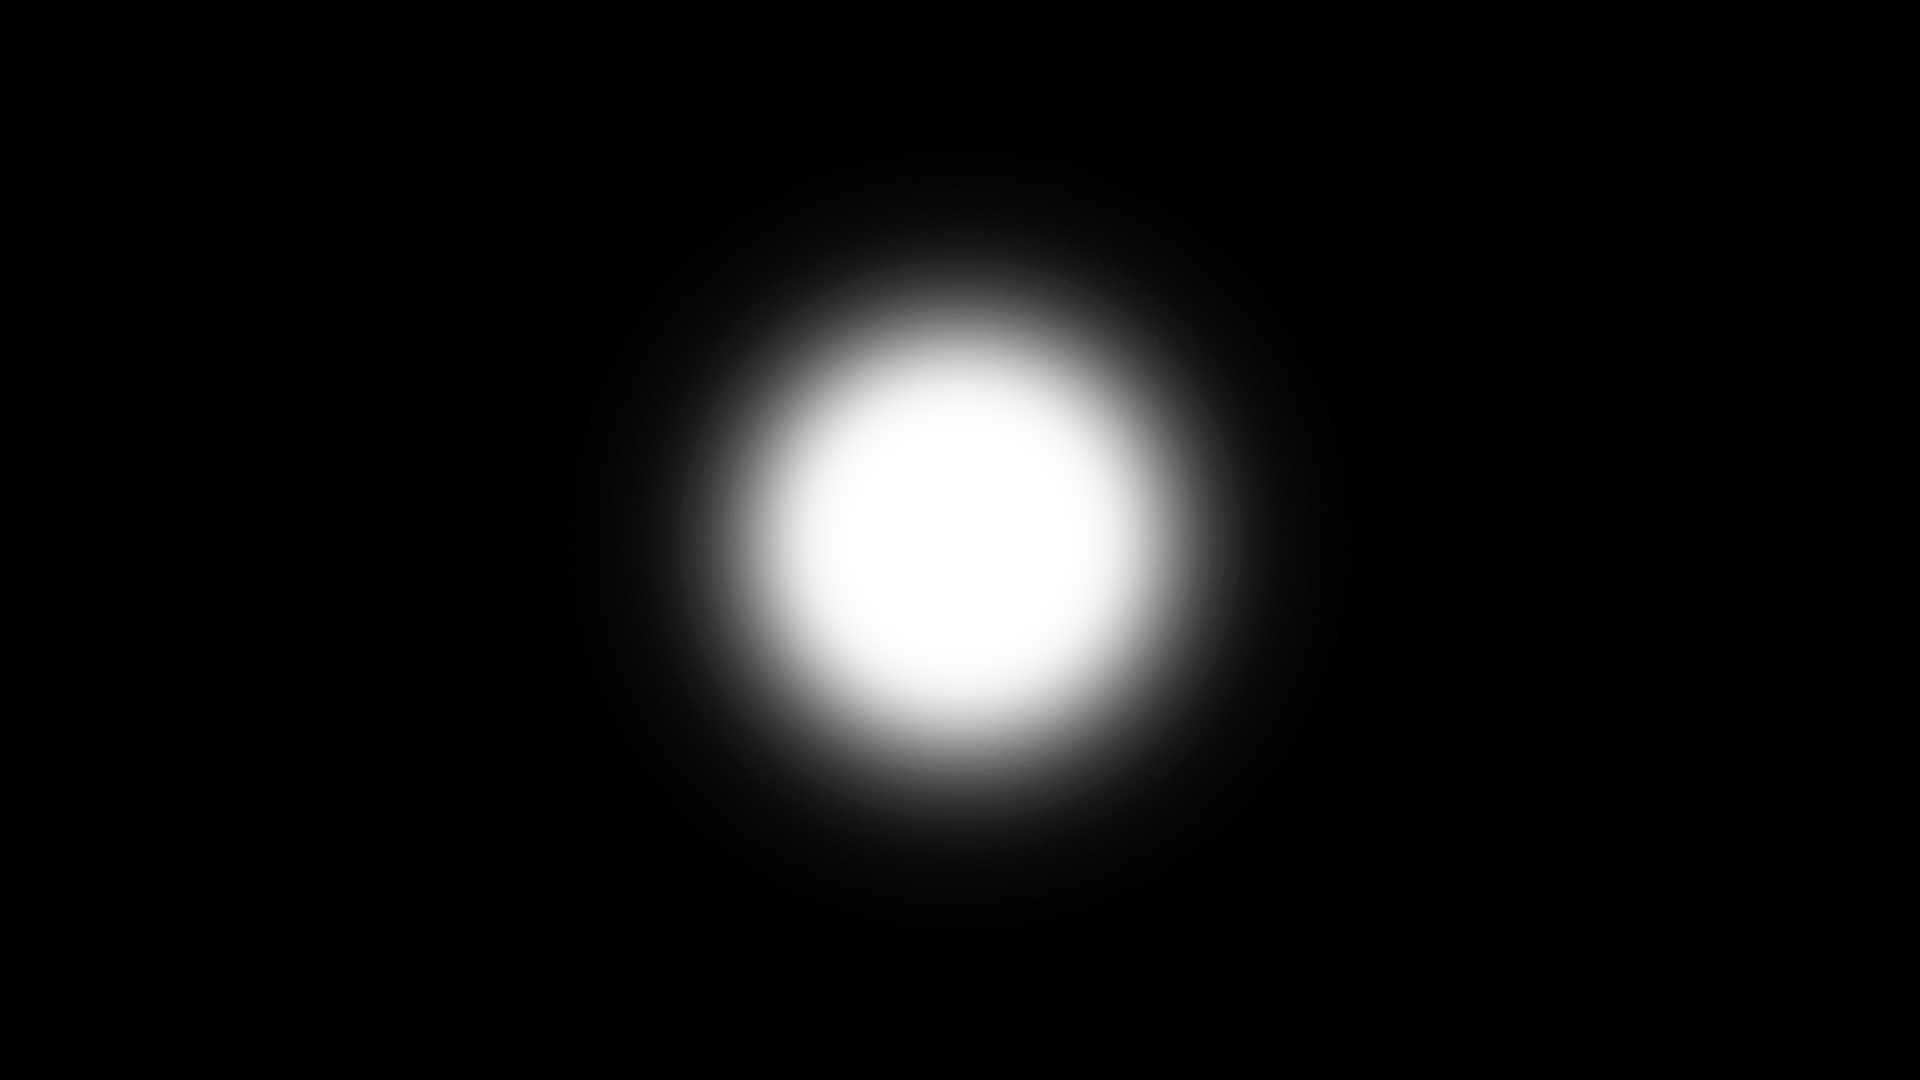
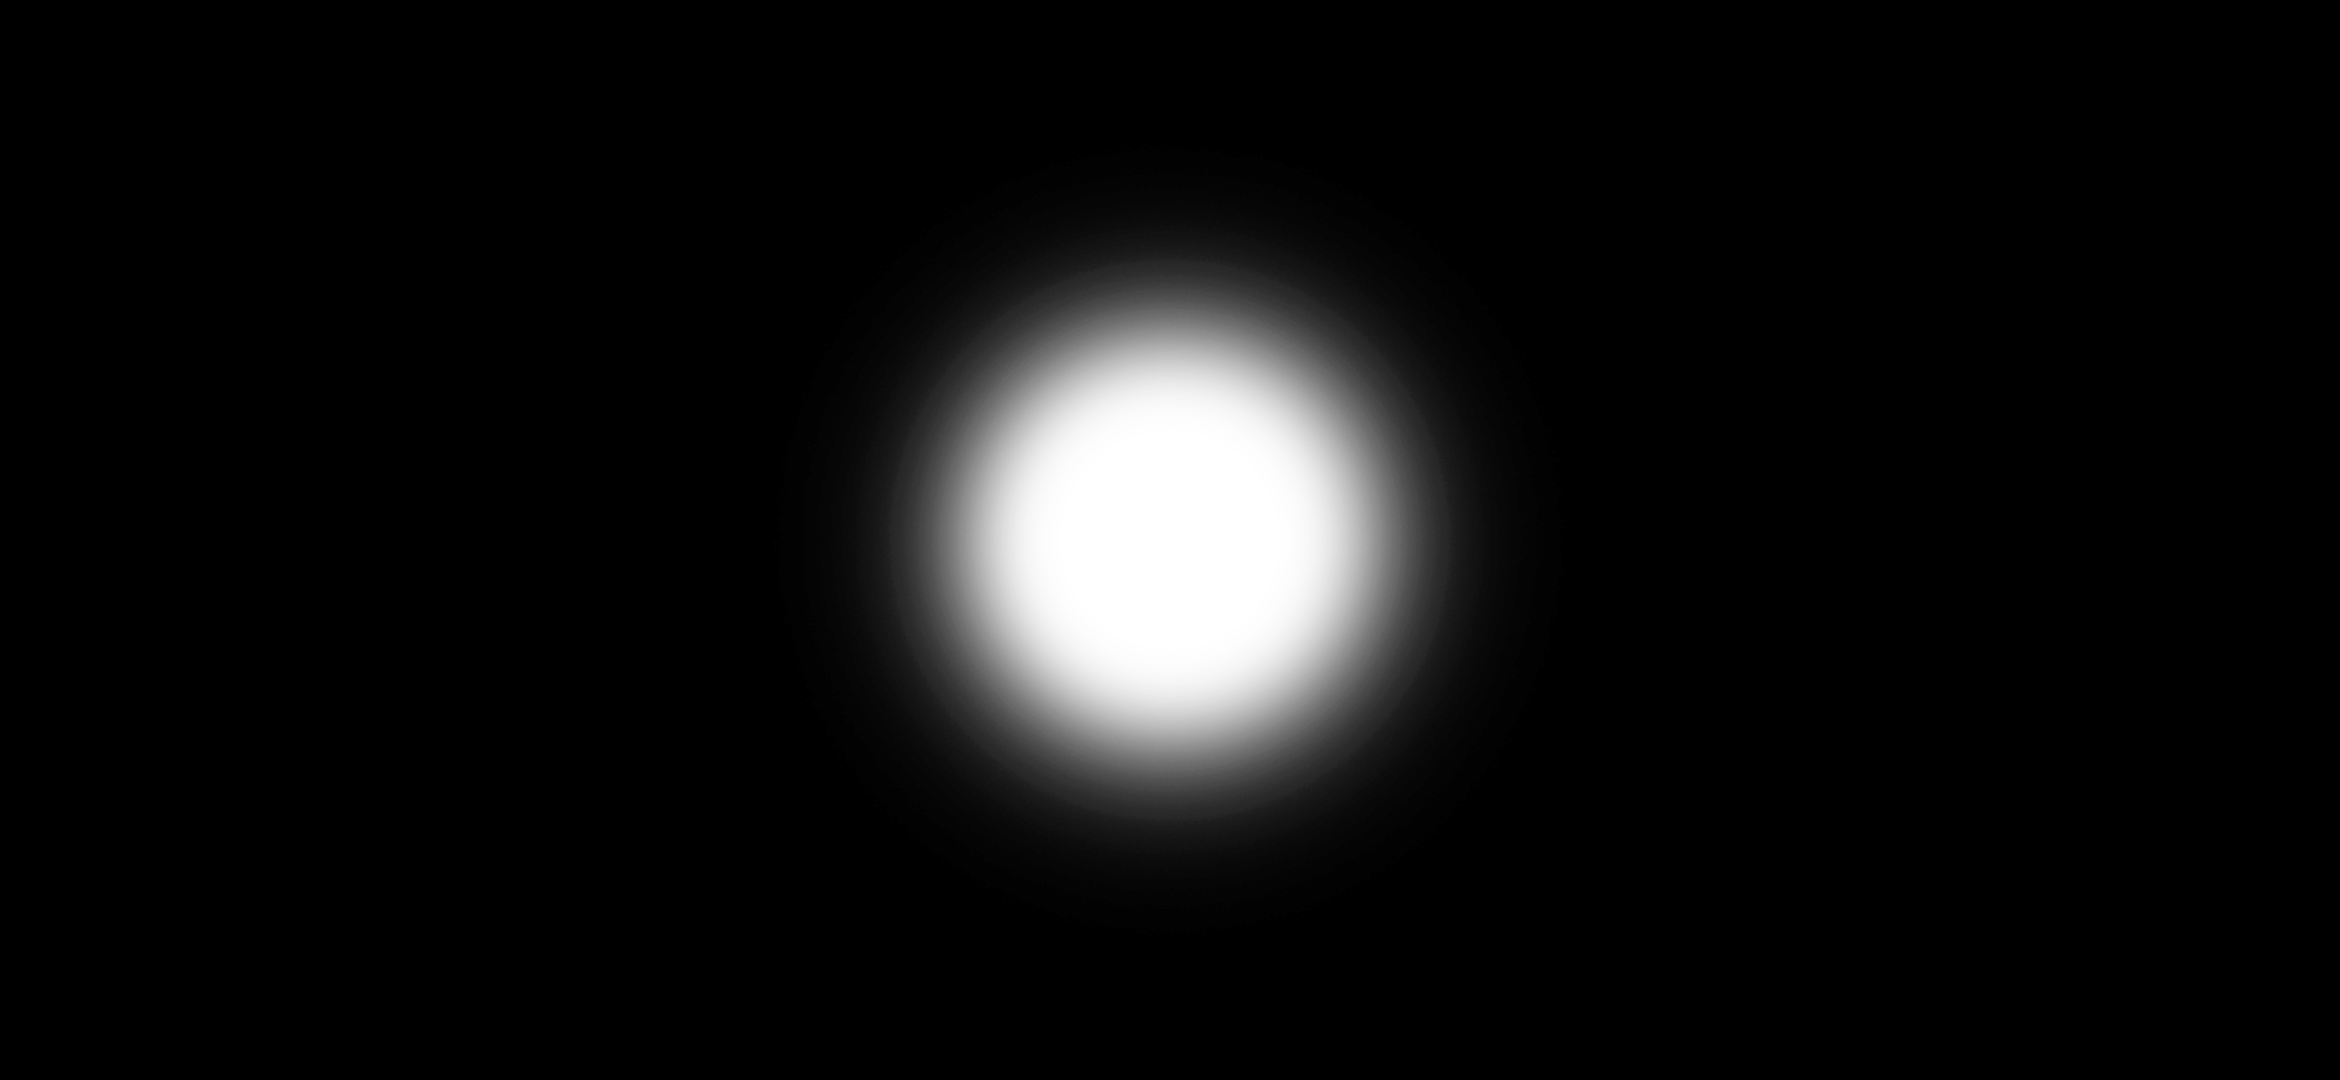
[Mod] 3차 이상 UI 결과물 표시 삭제

Changed region(s): [[0.5312, 0.3056, 0.6562, 0.7028], [0.3438, 0.3056, 0.4688, 0.7028]]

diff --git a/Minimo/Assets/02. Scripts/UI/UIManager.cs b/Minimo/Assets/02. Scripts/UI/UIManager.cs
@@ -8,6 +8,7 @@ using LeTai.Asset.TranslucentImage;
 public class UIManager : ManagerBase
 {
     [SerializeField] private GameObject _blurImg;
+    [SerializeField] private GameObject _produceBlurImg;
     [SerializeField] private GetItemPanel _getItem;
     public GetItemPanel GetItem => _getItem;
     
@@ -88,6 +89,7 @@ public class UIManager : ManagerBase
         }
         
         _blurImg.SetActive(panel.IsUseBlur);
+        _produceBlurImg.SetActive(panel.IsUseProduceBlur);
         panel.Show(true);
         _uiStack.Push(panel);
     }
@@ -104,6 +106,7 @@ public class UIManager : ManagerBase
             if (_uiStack.Peek().IsDefaultPanel)
             {
                 _blurImg.SetActive(false);
+                _produceBlurImg.SetActive(false);
                 foreach (var peek in _uiStack)
                 {
                     peek.Show(false);
@@ -114,6 +117,7 @@ public class UIManager : ManagerBase
                 var newPanel = _uiStack.Peek();
                 newPanel.Show(false);
                 _blurImg.SetActive(newPanel.IsUseBlur);
+                _produceBlurImg.SetActive(newPanel.IsUseProduceBlur);
             }
         }
     }

diff --git a/Minimo/Assets/02. Scripts/InGame/Produce/ProduceManager.cs b/Minimo/Assets/02. Scripts/InGame/Produce/ProduceManager.cs
@@ -54,7 +54,7 @@ public class ProduceManager : ManagerBase
         Deselect();
         
         CurrentObject = obj;
-        MoveCamera(_panelMap[obj.BuildingData.Type].OpenPanel);
+        MoveCamera(obj, _panelMap[obj.BuildingData.Type].OpenPanel);
     }
 
     public void Deselect()
@@ -65,13 +65,19 @@ public class ProduceManager : ManagerBase
         CurrentObject = null;
     }
 
-    private void MoveCamera(Action onComplete = null)
+    private void MoveCamera(ProduceObject obj, Action onComplete = null)
     {
+        var offset = obj switch
+        {
+            ProduceElevated => -0.5f,
+            _ => 0f
+        };
+        
         if (CurrentObject == null) return;
         
         var targetPos = new Vector3(
             CurrentObject.transform.position.x,
-            CurrentObject.transform.position.y,
+            CurrentObject.transform.position.y + offset,
             _camera.transform.position.z
         );
 

diff --git a/Minimo/Assets/02. Scripts/UI/Produce/Elevated/ElevatedPanel.cs b/Minimo/Assets/02. Scripts/UI/Produce/Elevated/ElevatedPanel.cs
@@ -6,7 +6,8 @@ using TMPro;
 
 public abstract class ElevatedPanel : UIBase
 {
-    public override bool IsUseBlur => true;
+    public override bool IsUseBlur => false;
+    public override bool IsUseProduceBlur => true;
     
     [SerializeField] private Button _closeBtn;
     [SerializeField] private TextMeshProUGUI _titleTMP;

diff --git a/Minimo/Assets/02. Scripts/UI/UIBase.cs b/Minimo/Assets/02. Scripts/UI/UIBase.cs
@@ -6,6 +6,7 @@ public abstract class UIBase : MonoBehaviour
     
     public virtual bool IsDefaultPanel => false;
     public virtual bool IsUseBlur => false;
+    public virtual bool IsUseProduceBlur => false;
 
     protected virtual bool IsUseGuide => false;
     private bool _isFirstOpen = true;
